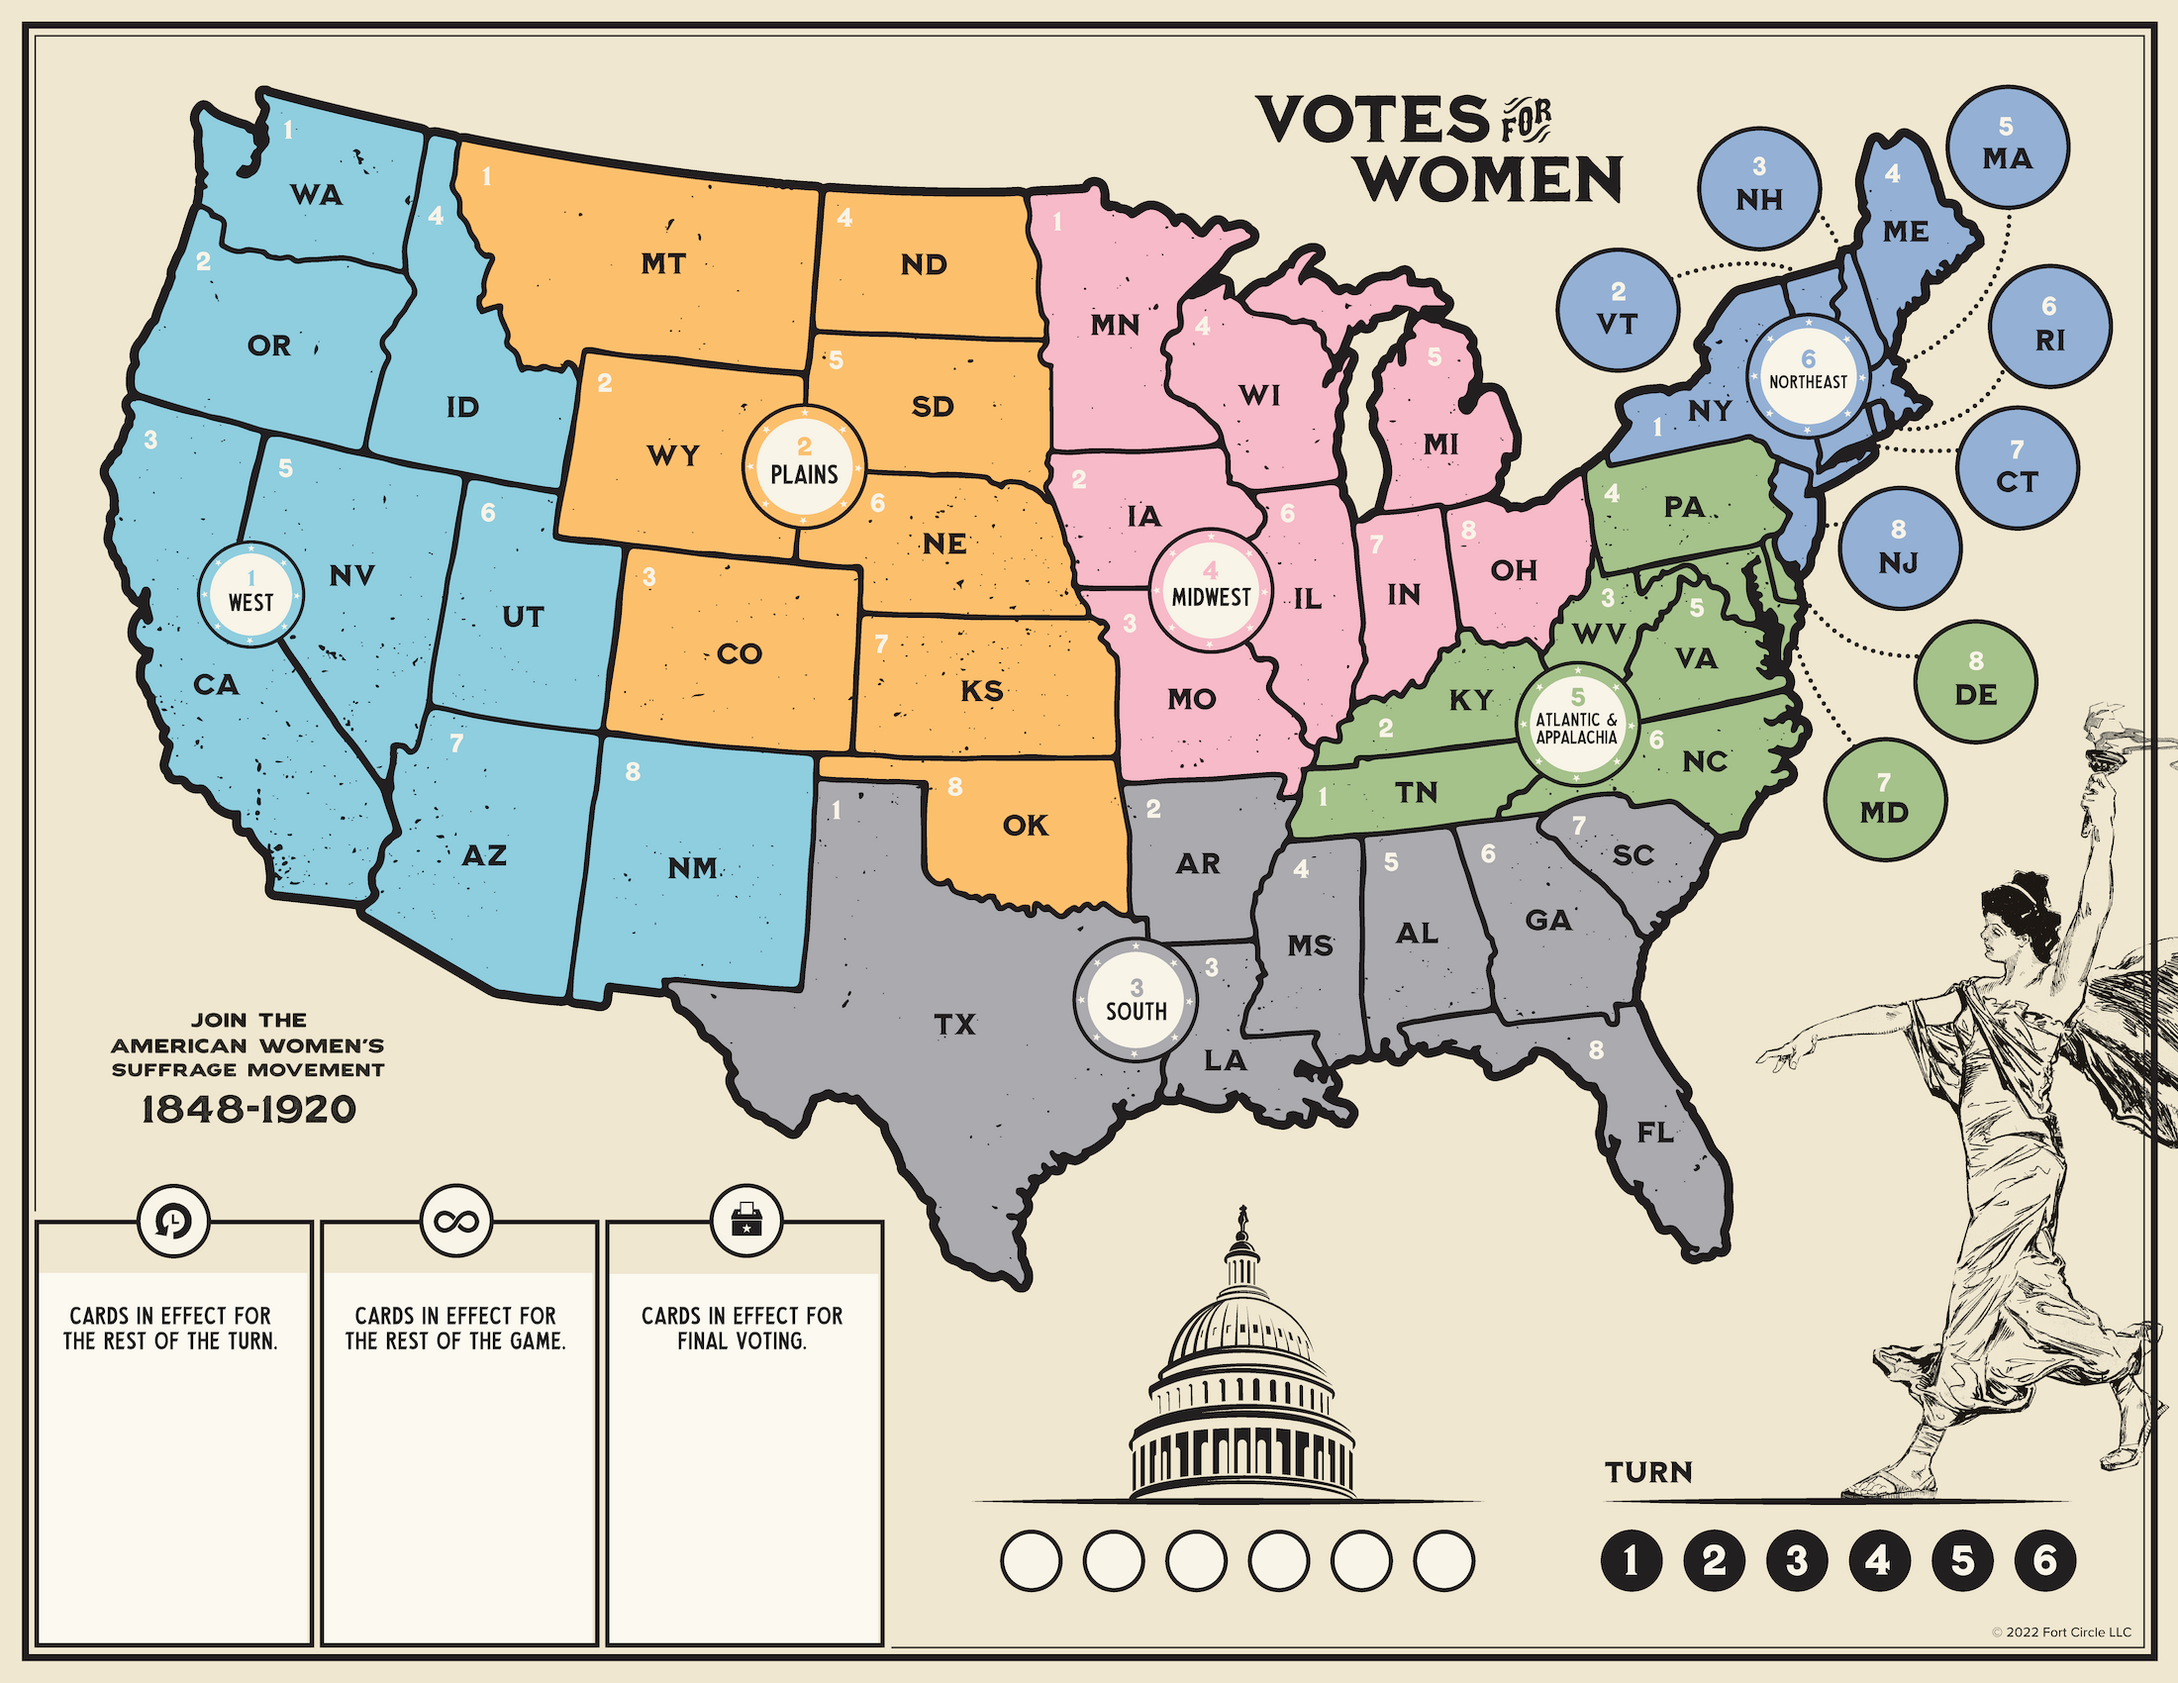
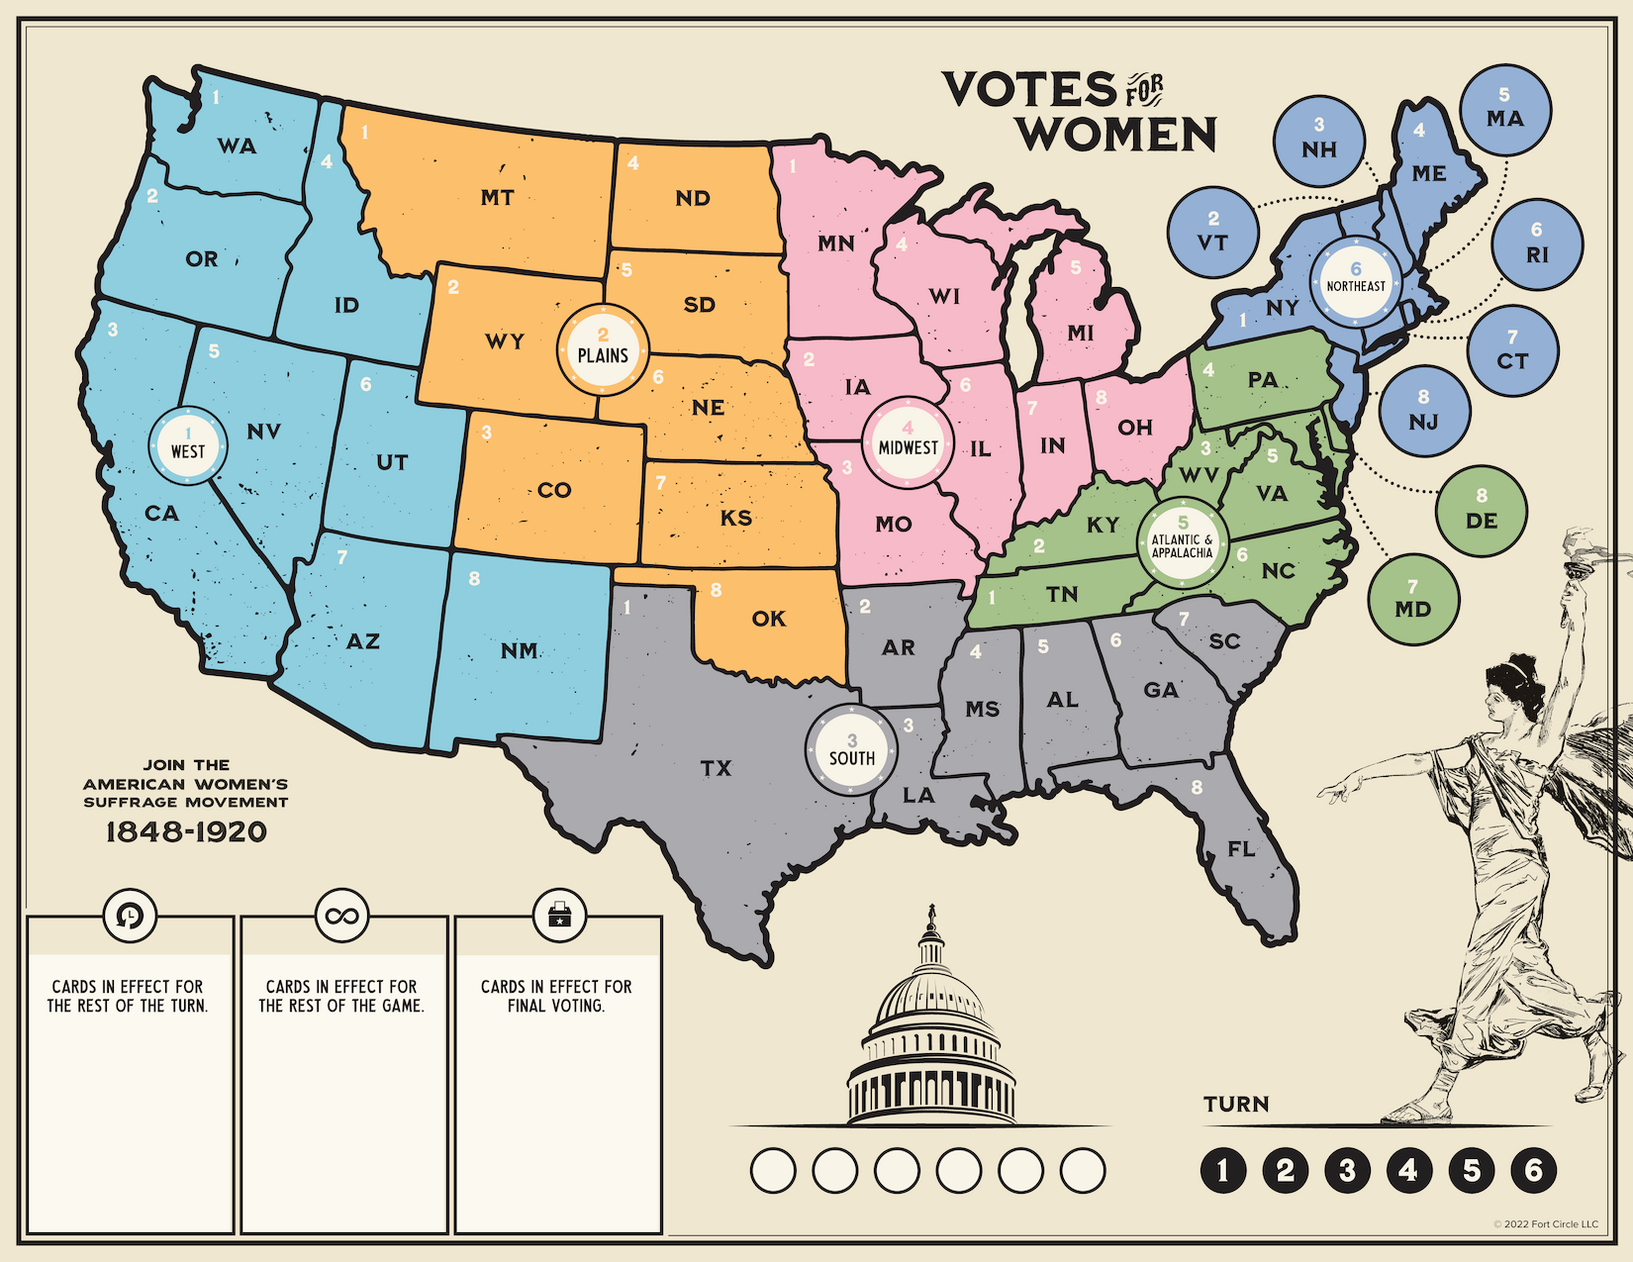
WIP large map (absolute divs for circle states not repositioned)

diff --git a/play.html b/play.html
@@ -146,7 +146,7 @@ body.Opposition header.your_turn { background-color: var(--opp-75); }
 }
 
 #hand, #discard, #support_claimed, #support_discard, #opposition_claimed, #opposition_discard, #states_draw, #strategy_draw, #out_of_play { min-height: 350px; }
-#hand_panel, #states_draw, #support_discard_panel, #opposition_discard_panel, #out_of_play { min-width: 1100px; }
+#hand_panel, #states_draw, #support_discard_panel, #opposition_discard_panel, #out_of_play { min-width: 1650px; }
 #strategy_draw { min-width: 790px; }
 #support_claimed, #opposition_claimed { min-width: 250px; }
 
@@ -173,26 +173,17 @@ body.Opposition header.your_turn { background-color: var(--opp-75); }
 /* MAP */
 
 #mapwrap {
-	width: 1100px;
-	height: 850px;
+	width: 1650px;
+	height: 1275px;
 	box-shadow: 0 1px 8px #0008;
 }
 
 #map {
-	width: 1100px;
-	height: 850px;
+	width: 1650px;
+	height: 1275px;
 	background-color: #f0e7d0;
 	background-image: url(map.webp);
-	background-size: 1100px 850px;
-}
-
-#map-texture {
-	position: absolute;
-	width: 1100px;
-	height: 850px;
-	background-image: url(map-texture.jpg);
-	background-size: 1100px 850px;
-	mix-blend-mode: multiply;
+	background-size: 1650px 1275px;
 }
 
 svg {
@@ -328,10 +319,10 @@ div.congress_box.action {
 */
 
 .piece.turn {
-	width: 30px;
-	height: 30px;
+	width: 45px;
+	height: 45px;
 	border-radius: 50%;
-	border: 3px solid white;
+	border: 4px solid white;
 	backdrop-filter: invert(80%);
 }
 
@@ -365,8 +356,8 @@ div.button_box.h {
 }
 
 div.button_box .button {
-	width: 38px;
-	height: 38px;
+	width: 57px;
+	height: 57px;
 	background-size: 100%;
 	border-radius: 50%;
 	border: 1px solid #0008;
@@ -609,7 +600,7 @@ div.button_box .button {
 	<div id="mapwrap">
 	<div id="map">
 
-		<svg id="svgmap" width="1100px" height="850px" viewBox="0 0 2200 1700">
+		<svg id="svgmap" width="1650px" height="1275px" viewBox="0 0 2200 1700">
 		<!-- BEGIN SVG -->
 
 <g transform="translate(0.000000,1700.000000) scale(0.500000,-0.500000)" fill="transparent">
@@ -1060,13 +1051,10 @@ c5 3 13 7 17 8 8 2 9 3 11 12 1 5 5 12 8 16 5 8 5 8 3 22 l-3 14 -30 -1 c-35
 		<div id="AtlanticAppalachia" class="region" style="top:332px;left:763px;"></div>
 		<div id="Northeast" class="region" style="top:157px;left:880px;"></div>
 
-		<div id="turn" class="piece turn" style="left:806px;top:770px;"></div>
-		<div id="congress_box" class="congress_box" style="left:490px;top:760px;width:270px;height:60px;">
-		</div>
-		<div id="support_buttons" class="button_box" style="left:25px;top:25px;">
-		</div>
-		<div id="opposition_buttons" class="button_box h" style="right:485px;top:30px;">
-		</div>
+		<div id="turn" class="piece turn" style="left:1209px;top:1155px;"></div>
+		<div id="congress_box" class="congress_box" style="left:490px;top:760px;width:270px;height:60px;"></div>
+		<div id="opposition_buttons" class="button_box" style="left:36px;top:36px;"></div>
+		<div id="support_buttons" class="button_box h" style="right:720px;top:45px;"></div>
 
 		<div id="pieces"></div>
 

diff --git a/play.js b/play.js
@@ -56,60 +56,60 @@ let ui = {
 
 // :r !python3 tools/genlayout.py
 const LAYOUT = {
-	"Northeast": [914, 190],
-	"AtlanticAppalachia": [797, 366],
-	"Midwest": [612, 298],
-	"South": [574, 505],
-	"Plains": [406, 236],
-	"West": [127, 300],
-	"NJ": [960, 277],
-	"CT": [1019, 237],
-	"RI": [1036, 165],
-	"MA": [1014, 74],
-	"ME": [963, 119],
-	"NH": [889, 96],
-	"VT": [817, 157],
-	"NY": [863, 207],
-	"DE": [997, 345],
-	"MD": [952, 404],
-	"NC": [864, 385],
-	"VA": [861, 332],
-	"PA": [849, 257],
-	"WV": [811, 314],
-	"KY": [743, 351],
-	"TN": [716, 401],
-	"OH": [762, 287],
-	"IN": [708, 285],
-	"IL": [663, 333],
-	"MI": [724, 228],
-	"WI": [639, 198],
-	"MO": [601, 357],
-	"IA": [563, 256],
-	"MN": [561, 163],
-	"FL": [835, 572],
-	"SC": [828, 433],
-	"GA": [779, 465],
-	"AL": [715, 470],
-	"MS": [662, 477],
-	"LA": [623, 544],
-	"AR": [605, 436],
-	"TX": [482, 516],
-	"OK": [519, 417],
-	"KS": [497, 348],
-	"NE": [477, 273],
-	"SD": [471, 205],
-	"ND": [468, 134],
-	"CO": [374, 331],
-	"WY": [341, 229],
-	"MT": [335, 133],
-	"NM": [351, 440],
-	"AZ": [245, 432],
-	"UT": [264, 310],
-	"NV": [180, 290],
-	"ID": [233, 203],
-	"CA": [126, 367],
-	"OR": [135, 173],
-	"WA": [158, 97],
+	"Northeast": [1371, 285],
+	"AtlanticAppalachia": [1196, 549],
+	"Midwest": [918, 447],
+	"South": [861, 758],
+	"Plains": [609, 354],
+	"West": [190, 450],
+	"NJ": [1440, 416],
+	"CT": [1528, 356],
+	"RI": [1554, 248],
+	"MA": [1521, 111],
+	"ME": [1444, 178],
+	"NH": [1334, 144],
+	"VT": [1226, 236],
+	"NY": [1294, 310],
+	"DE": [1496, 518],
+	"MD": [1428, 606],
+	"NC": [1296, 578],
+	"VA": [1292, 498],
+	"PA": [1274, 386],
+	"WV": [1216, 471],
+	"KY": [1114, 526],
+	"TN": [1074, 602],
+	"OH": [1143, 430],
+	"IN": [1062, 428],
+	"IL": [994, 500],
+	"MI": [1086, 342],
+	"WI": [958, 297],
+	"MO": [902, 536],
+	"IA": [844, 384],
+	"MN": [842, 244],
+	"FL": [1252, 858],
+	"SC": [1242, 650],
+	"GA": [1168, 698],
+	"AL": [1072, 705],
+	"MS": [993, 716],
+	"LA": [934, 816],
+	"AR": [908, 654],
+	"TX": [723, 774],
+	"OK": [778, 626],
+	"KS": [746, 522],
+	"NE": [716, 410],
+	"SD": [706, 308],
+	"ND": [702, 201],
+	"CO": [561, 496],
+	"WY": [512, 344],
+	"MT": [502, 200],
+	"NM": [526, 660],
+	"AZ": [368, 648],
+	"UT": [396, 465],
+	"NV": [270, 435],
+	"ID": [350, 304],
+	"CA": [189, 550],
+	"OR": [202, 260],
+	"WA": [237, 146],
 }
 
 const US_STATES_LAYOUT = [ null ]
@@ -647,7 +647,7 @@ function on_update() { // eslint-disable-line no-unused-vars
 	document.getElementById("support_info").textContent = support_info()
 	document.getElementById("opposition_info").textContent = opposition_info()
 
-	ui.turn.style.left = 806 + (42 * (view.turn - 1)) + "px"
+	ui.turn.style.left = 1209 + (63 * (view.turn - 1)) + "px"
 
 	ui.congress_box.replaceChildren()
 	ui.congress_box.classList.toggle("action", !view.congress && is_action("congress"))

diff --git a/tools/genlayout.py b/tools/genlayout.py
@@ -25,7 +25,7 @@ def readsvg(filename):
 def print_list(data):
     print("const LAYOUT = {")
     for (name, x, y) in data:
-        print(f'\t"{name}": [{x}, {y}],')
+        print(f'\t"{name}": [{round(x*1.5)}, {round(y*1.5)}],')
     print("}")
 
 result = readsvg("tools/layout.svg")
